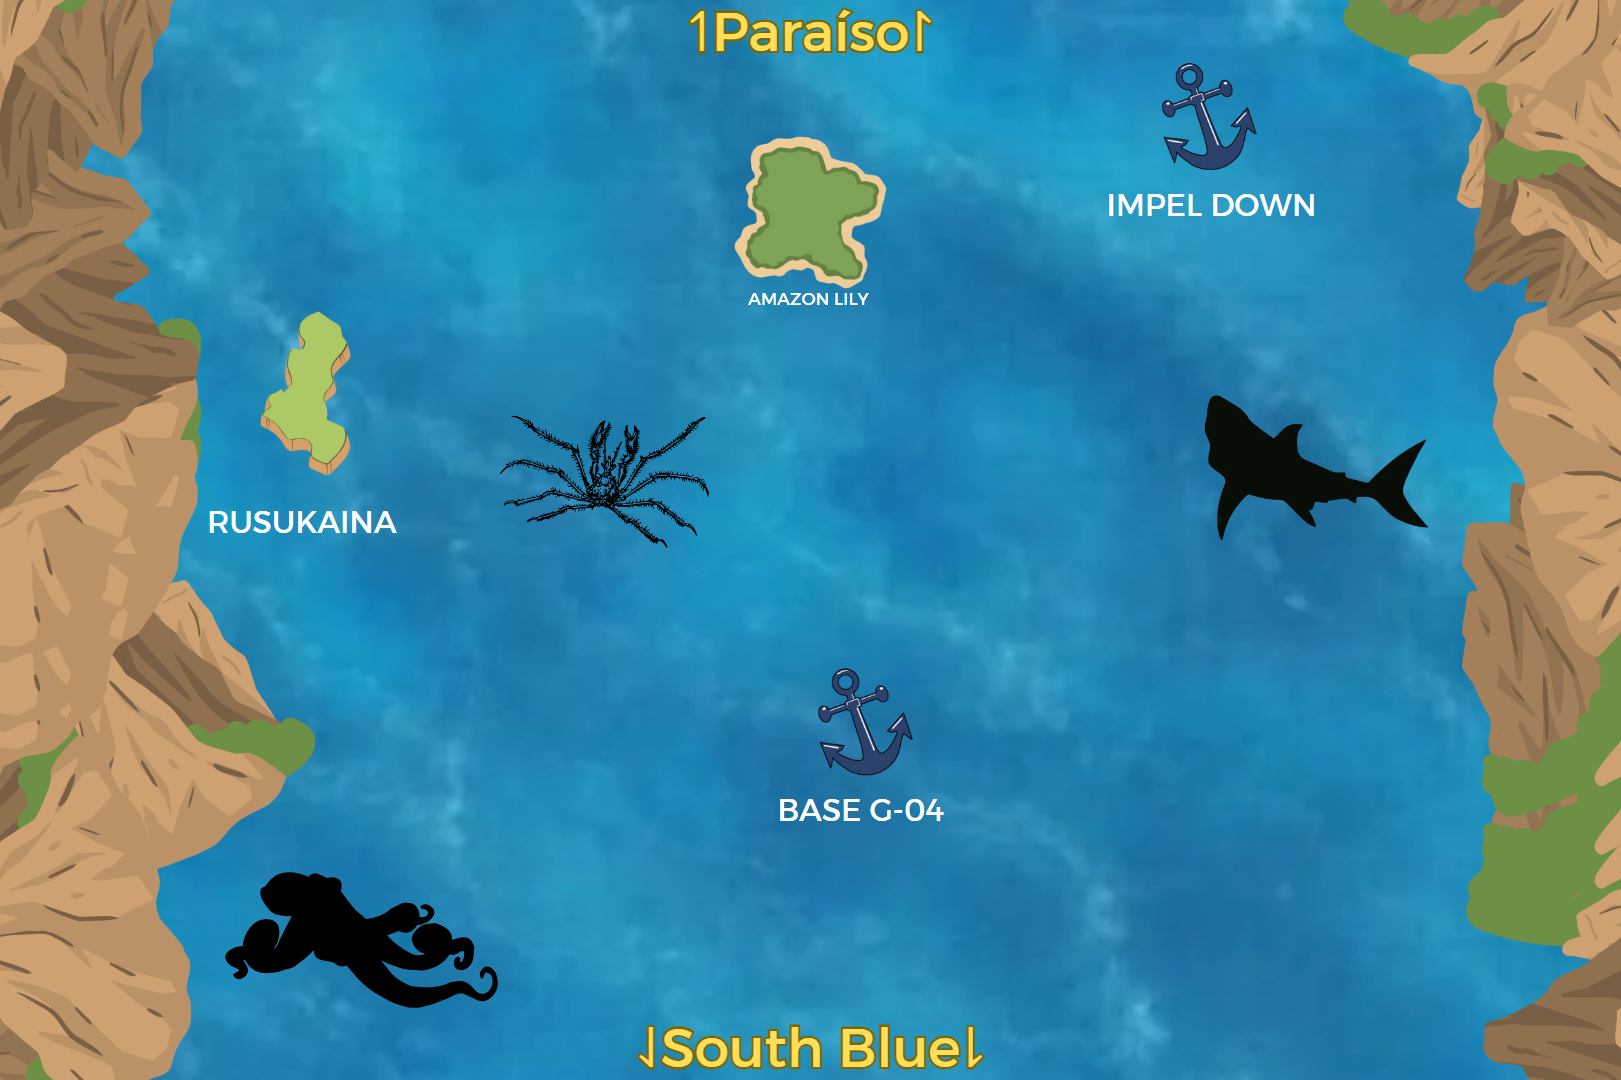
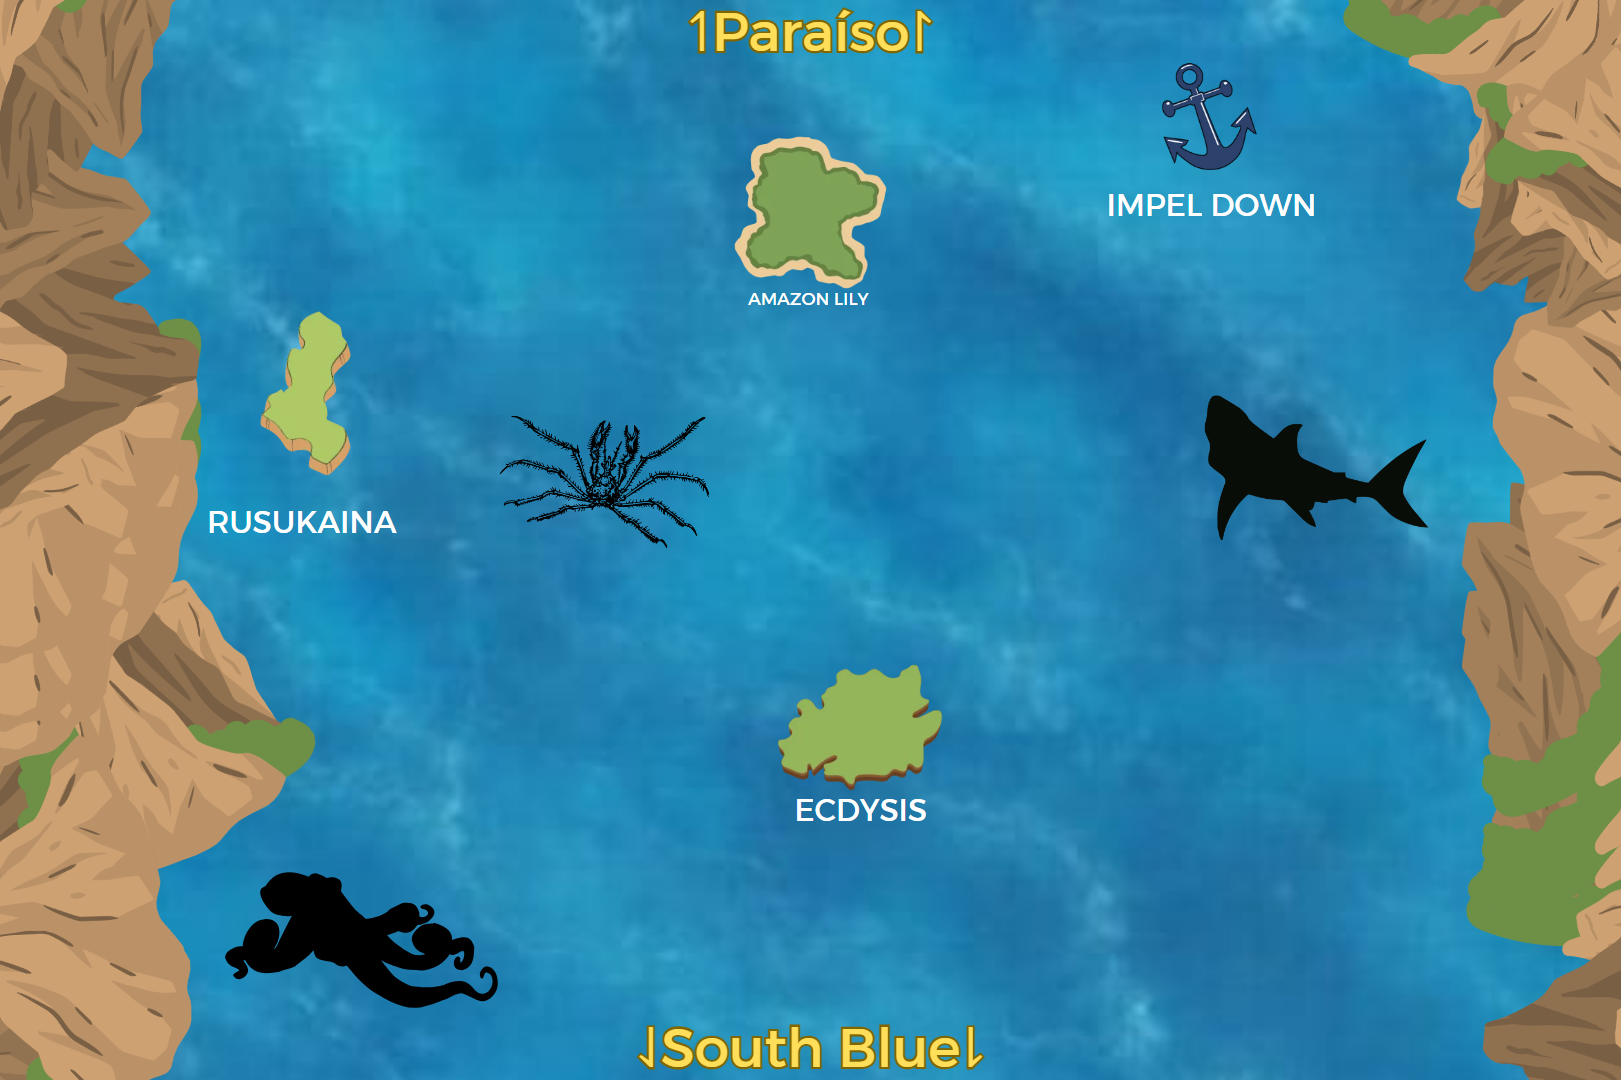
Site

Changed region(s): [[0.4627, 0.6111, 0.5861, 0.7639]]

diff --git a/assets/js/script.js b/assets/js/script.js
@@ -1668,7 +1668,7 @@ if (mapGrids.length > 0) {
         },
         'calm-belt-south': {
             'Amazon Lily': ['B11', 'C10', 'C11', 'C12', 'D10', 'D11', 'D12'],
-            'Base da Marinha G-04': ['I11', 'I12', 'J11', 'J12'],
+            'Ecdysis': ['I11', 'I12', 'J11', 'J12'],
             'Impel Down': ['B16', 'B17', 'C16', 'C17'],
             'Rusukaina': ['E04', 'E05', 'F04', 'F05']
         }
@@ -3745,7 +3745,7 @@ const bancoDeIlhas = {
     ],
     "Novo Mundo": [
         { nome: "Applenine", afiliacaoTexto: "Independente", afiliacaoClasse: "independente", descricao: `<p style="margin-bottom: 15px;">Uma ilha fértil e exuberante, conhecida por suas vastas plantações de maçãs únicas, chamadas de "Nove-Sabores", devido à variedade de gostos que uma única maçã pode oferecer. Situada próxima a outras ilhas influentes, Applenine prospera como um centro comercial independente, atraindo comerciantes e aventureiros. No entanto, sua posição estratégica também a torna alvo frequente de piratas e facções em busca de domínio sobre suas terras produtivas.</p>` },
-        { nome: "Base da Marinha G-09", afiliacaoTexto: "Vanguarda Popular Revolucionária", afiliacaoClasse: "revolucionaria", descricao: `<p style="margin-bottom: 15px;">Localizada em uma área estratégica do Novo Mundo, a Base G-09 é uma fortaleza flutuante construída sobre uma ilha artificial reforçada com aço naval. Apelidada de "Forte da Aurora" devido ao brilho dourado que reflete em suas muralhas ao amanhecer, essa base é um dos principais pontos de defesa contra piratas que tentam invadir territórios sob controle do Governo Mundial. Seu comandante é um estrategista infame, conhecido por suas táticas defensivas e emboscadas no mar. A G-09 também serve como um centro de treinamento para novos marinheiros, moldando futuros combatentes para enfrentar as ameaças do Novo Mundo.</p>` },
+        { nome: "Base da Marinha G-09", afiliacaoTexto: "Vanguarda Popular Revolucionária", afiliacaoClasse: "revolucionaria", descricao: `<p style="margin-bottom: 15px;">Localizada em uma área estratégica do Novo Mundo, a Base da Marinha G-09 é uma fortaleza flutuante construída sobre uma ilha artificial reforçada com aço naval. Apelidada de "Forte da Aurora" devido ao brilho dourado que reflete em suas muralhas ao amanhecer, essa base é um dos principais pontos de defesa contra piratas que tentam invadir territórios sob controle do Governo Mundial. Seu comandante é um estrategista infame, conhecido por suas táticas defensivas e emboscadas no mar. A G-09 também serve como um centro de treinamento para novos marinheiros, moldando futuros combatentes para enfrentar as ameaças do Novo Mundo.</p>` },
         { nome: "Base da Marinha G-13", afiliacaoTexto: "Governo Mundial/Marinha", afiliacaoClasse: "marinha", descricao: `<p style="margin-bottom: 15px;">Escondida em meio a ilhas rochosas e bancos de neblina traiçoeiros, a G-13 é um centro de pesquisa e desenvolvimento militar, onde a Marinha testa novas armas e embarcações projetadas para enfrentar as ameaças do Novo Mundo. Seu acesso é altamente restrito, e poucas pessoas além de seus próprios engenheiros e oficiais conhecem sua localização exata. Rumores entre os marinheiros dizem que a G-13 abriga protótipos tão destrutivos que o Governo Mundial mantém sua existência em segredo, temendo que sua tecnologia caia em mãos erradas.</p>` },
         { nome: "Base da Marinha G-14", afiliacaoTexto: "Governo Mundial/Marinha", afiliacaoClasse: "marinha", descricao: `<p style="margin-bottom: 15px;">Situada sobre uma série de falésias elevadas, a G-14 se destaca por sua posição privilegiada, permitindo que seus vigias enxerguem grandes distâncias no horizonte. Essa base é especializada em combates aéreos e tem um esquadrão próprio de navios leves, capazes de realizar ataques rápidos e missões de interceptação. Seus oficiais são treinados para operações em altitudes elevadas, e alguns rumores dizem que a base mantém uma parceria secreta com uma tribo de guerreiros que dominam os céus.</p>` },
         { nome: "Base da Marinha G-15", afiliacaoTexto: "Governo Mundial/Marinha", afiliacaoClasse: "marinha", descricao: `<p style="margin-bottom: 15px;">A G-15 é uma das bases mais fortificadas do Novo Mundo, construída sobre uma imensa doca naval que abriga frotas de guerra da Marinha. Conhecida como "O Dique de Ferro", essa base é o maior ponto de reabastecimento e manutenção de navios da Marinha na região. Sua estrutura é reforçada com camadas de metal, tornando-a resistente a bombardeios e ataques diretos. Os engenheiros navais mais talentosos do Governo Mundial operam aqui, criando embarcações e armas avançadas para combater a crescente ameaça pirata.</p>` },
@@ -3765,10 +3765,10 @@ const bancoDeIlhas = {
     ],
     "Calm Belt": [
         { nome: "Amazon Lily", afiliacaoTexto: "Pirata", afiliacaoClasse: "pirata", descricao: `<p style="margin-bottom: 15px;">Amazon Lily é uma ilha localizada no Calm Belt, cercada por águas infestadas de Reis do Mar, o que a torna isolada e de difícil acesso. A ilha é governada pelas guerreiras da Tribo Kuja, uma sociedade exclusivamente feminina conhecida por sua força em combate e pelo domínio do Haki. A cultura local valoriza a força e a independência, e os homens são estritamente proibidos de permanecer na ilha. Devido ao seu isolamento e às habilidades excepcionais de suas habitantes, Amazon Lily é um dos lugares mais singulares do mundo.</p>` },
-        { nome: "Base da Marinha G-04", afiliacaoTexto: "Despovoada", afiliacaoClasse: "despovoada", descricao: `<p style="margin-bottom: 15px;">Antiga base flutuante da Marinha. Após as Piratas Supernova da Lótus de Ferro, <u>Astarion D. Emiri</u> e <u>Kozuki Ryōshū</u>, matarem os dois Vice-Almirantes responsáveis por cuidar do local, <u>MahaD Mnaj</u> e <u>Serm D'yos</u>, e tirarem também a vida de 62.000 marinheiros, o local foi abandonado pela Marinha. Fronteira da Grand Line com o South Blue no Calm Belt.</p>` },
         { nome: "Base da Marinha G-05", afiliacaoTexto: "Governo Mundial/Marinha", afiliacaoClasse: "marinha", descricao: `<p style="margin-bottom: 15px;">Base flutuante da Marinha. Fronteira da Grand Line com o East Blue no Calm Belt.</p>` },
         { nome: "Base da Marinha G-06", afiliacaoTexto: "Governo Mundial/Marinha", afiliacaoClasse: "marinha", descricao: `<p style="margin-bottom: 15px;">Base flutuante da Marinha. Fronteira da Grand Line com o North Blue no Calm Belt.</p>` },
         { nome: "Base da Marinha G-07", afiliacaoTexto: "Governo Mundial/Marinha", afiliacaoClasse: "marinha", descricao: `<p style="margin-bottom: 15px;">Base flutuante da Marinha. Fronteira da Grand Line com o West Blue no Calm Belt.</p>` },
+        { nome: "Ecdysis", afiliacaoTexto: "Pirata", afiliacaoClasse: "pirata", descricao: `<p style="margin-bottom: 15px;">Antiga base da Marinha. Após as Piratas Supernova da tripulação Lótus de Ferro, <u>Astarion D. Emiri</u> e <u>Kozuki Ryōshū</u>, matarem os dois Vice-Almirantes responsáveis por cuidar do local, <u>MahaD Mnaj</u> e <u>Serm D'yos</u>, e tirarem também a vida de 62.000 marinheiros, o local foi abandonado pela Marinha. Fronteira da Grand Line com o South Blue no Calm Belt.</p>` },
         { nome: "Impel Down", afiliacaoTexto: "Governo Mundial/Marinha", afiliacaoClasse: "marinha", descricao: `<p style="margin-bottom: 15px;">Impel Down é uma prisão submarina de segurança máxima administrada pelo Governo Mundial, situada no Calm Belt e integrada à Corrente Tarai. Junto com Marineford e Enies Lobby, forma um dos três grandes baluartes da justiça no Paraíso. Destinada a manter os criminosos e piratas mais perigosos sob rigorosa vigilância, a fortaleza é praticamente impenetrável. Sua estrutura imponente e seus guardas implacáveis fazem dela um verdadeiro pesadelo para qualquer detento.</p>` },
         { nome: "Rusukaina", afiliacaoTexto: "Vanguarda Popular Revolucionária", afiliacaoClasse: "revolucionaria", descricao: `<p style="margin-bottom: 15px;">Rusukaina é uma ilha inóspita localizada no Calm Belt, caracterizada por suas condições extremas e hostis. O clima na ilha muda drasticamente 48 vezes ao longo do ano, tornando o ambiente imprevisível e desafiador. Além disso, a região é habitada por diversas criaturas selvagens e extremamente perigosas, dificultando ainda mais a sobrevivência de qualquer visitante. Devido a esses fatores, Rusukaina é um local ideal para o desenvolvimento de habilidades de combate e resistência, sendo um verdadeiro teste para aqueles que ousam enfrentar seus perigos.</p>` },
         { nome: "Shitsurakujima", afiliacaoTexto: "Vanguarda Popular Revolucionária", afiliacaoClasse: "revolucionaria", descricao: `<p style="margin-bottom: 15px;">Shitsurakujima é uma ilha remota e isolada localizada no Calm Belt. É um território montanhoso coberto por florestas densas e constantemente assolado por um clima glacial. Ventos cortantes, tempestades de neve frequentes e terrenos traiçoeiros tornaram a ilha inóspita e praticamente inabitável</p>` }
@@ -3793,7 +3793,6 @@ const recursosDasIlhas = {
     "Base da Marinha G-01": [],
     "Base da Marinha G-02": [],
     "Base da Marinha G-03": [],
-    "Base da Marinha G-04": [],
     "Base da Marinha G-05": [],
     "Base da Marinha G-06": [],
     "Base da Marinha G-07": [],
@@ -3819,6 +3818,7 @@ const recursosDasIlhas = {
     "Downs": ["Carvalho", "Pau-Brasil", "Materiais de Criadores 1", "Materiais de Criadores 2", "Ferro"],
     "Dressrosa": ["Carvalho", "Pinheiro", "Materiais de Criadores 1", "Materiais de Criadores 2", "Materiais de Criadores 3", "Mithril"],
     "Drum": ["Pinheiro", "Materiais de Criadores 1", "Materiais de Criadores 2", "Materiais de Criadores 3", "Mithril"],
+    "Ecdysis": ["Materiais de Criadores 1"],
     "Egghead": ["Pinheiro", "Materiais de Criadores 1", "Materiais de Criadores 4", "Adamantium"],
     "Elbaf": ["Árvore do Tesouro Adão", "Carvalho", "Pau-Brasil", "Materiais de Criadores 1", "Adamantium", "Vibranium"],
     "Enies Lobby": [],
